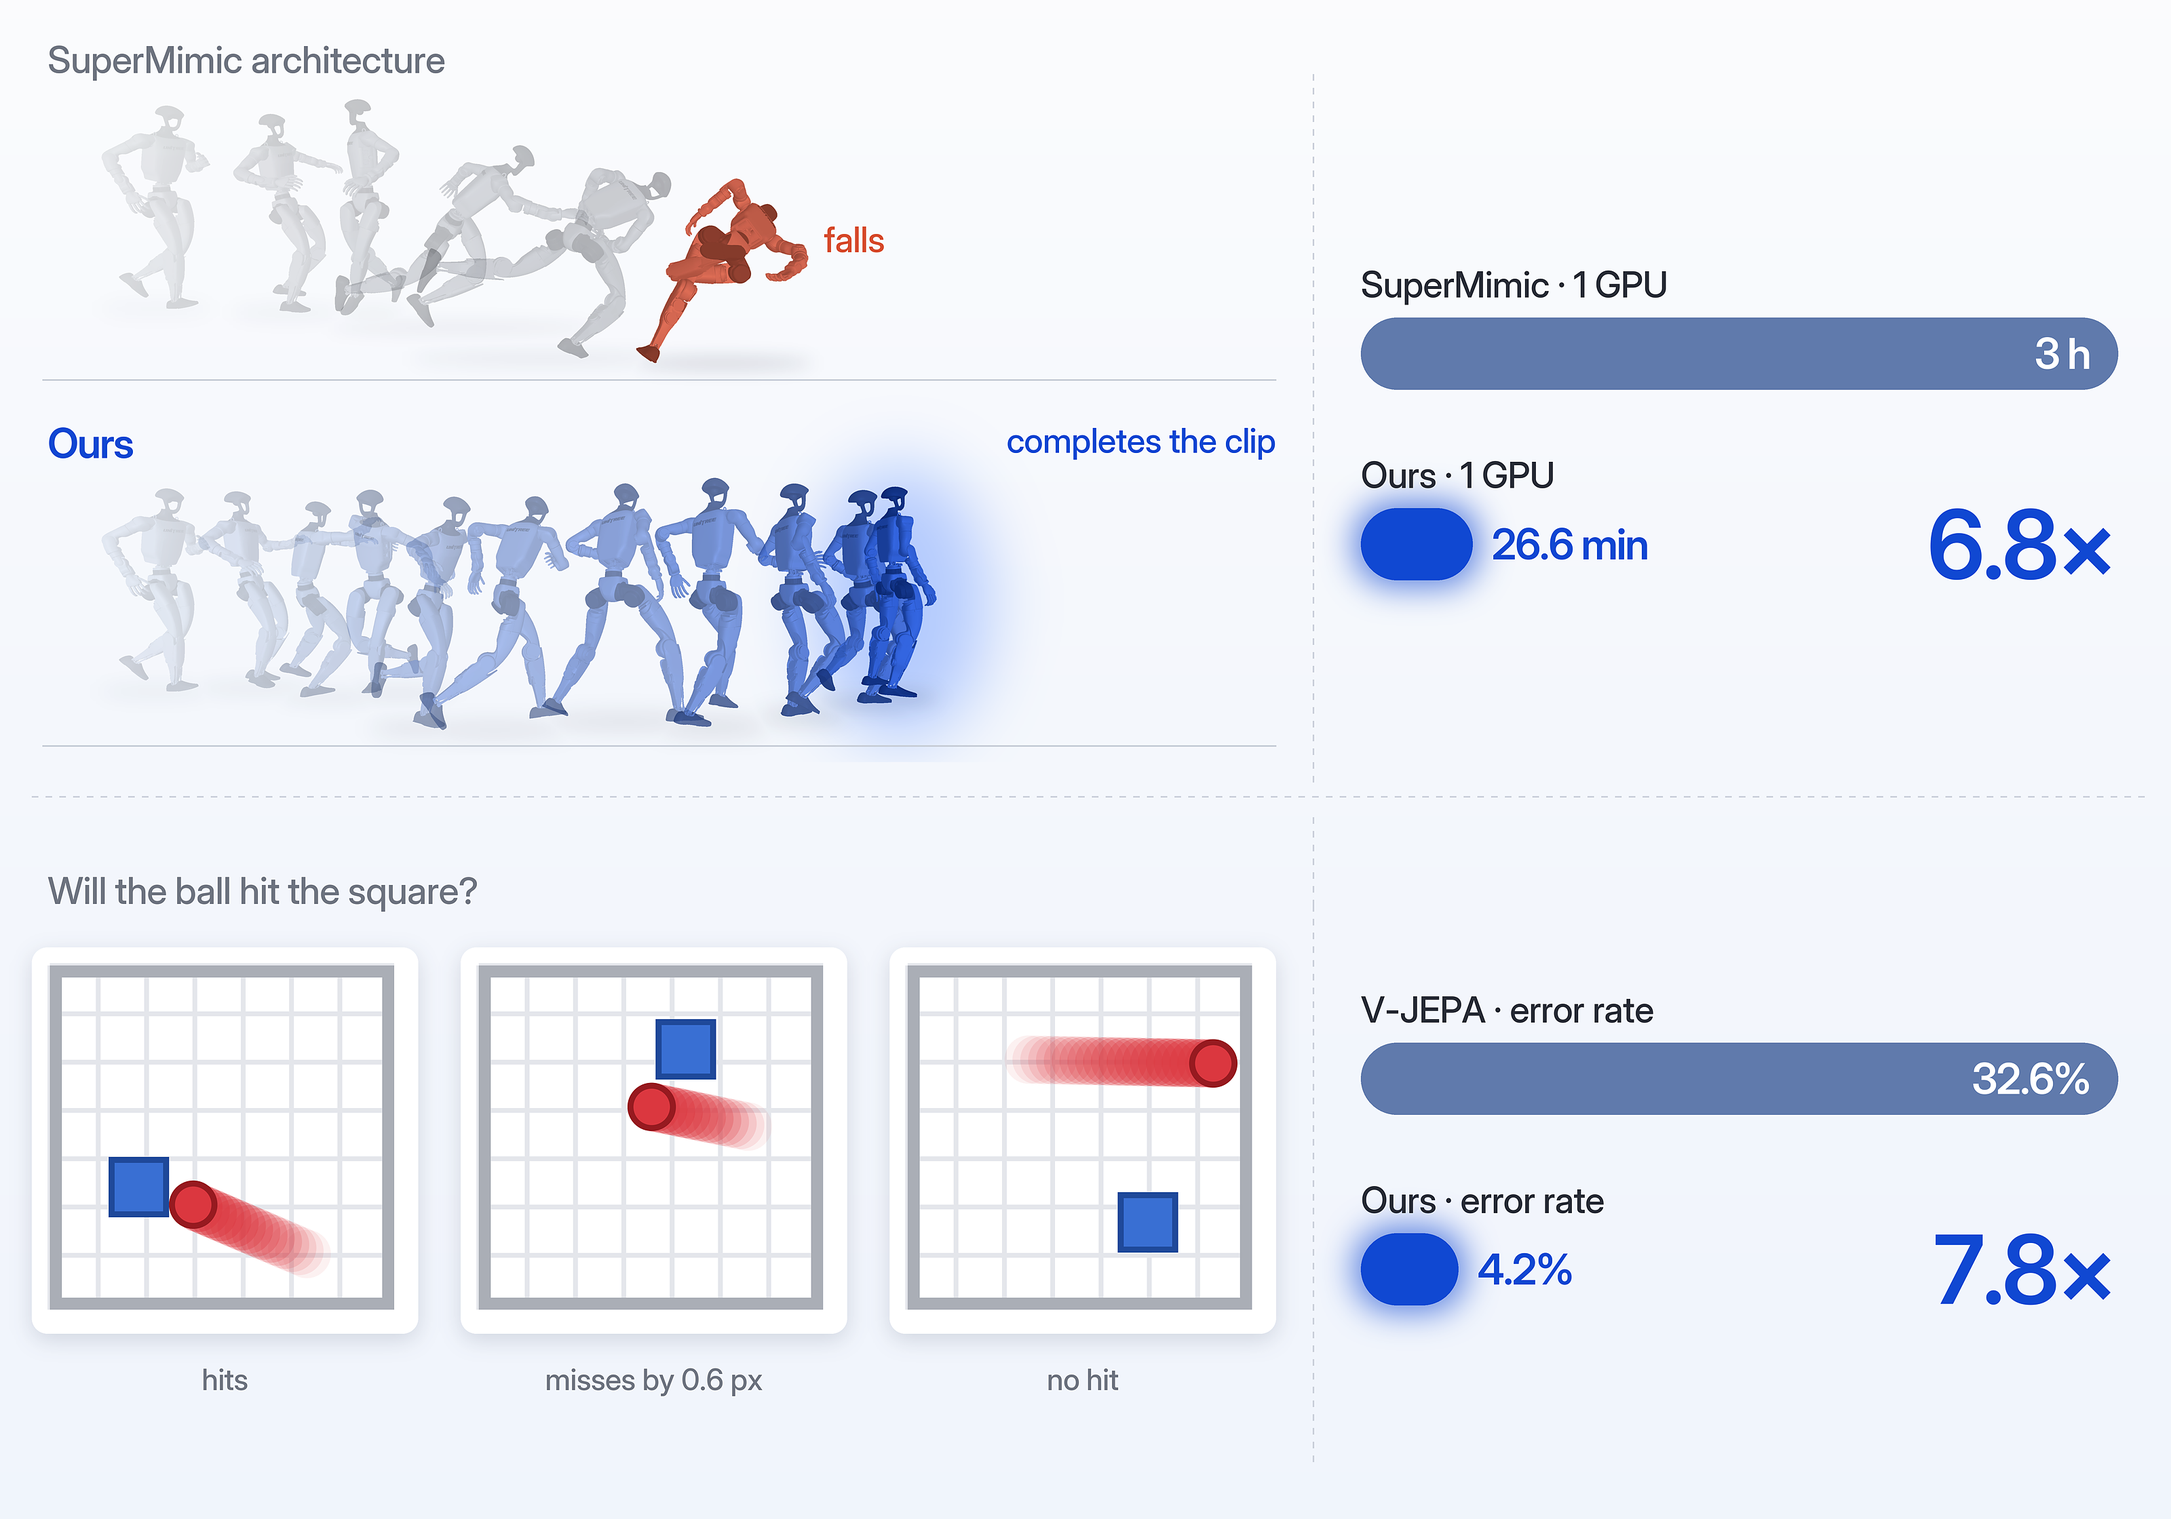
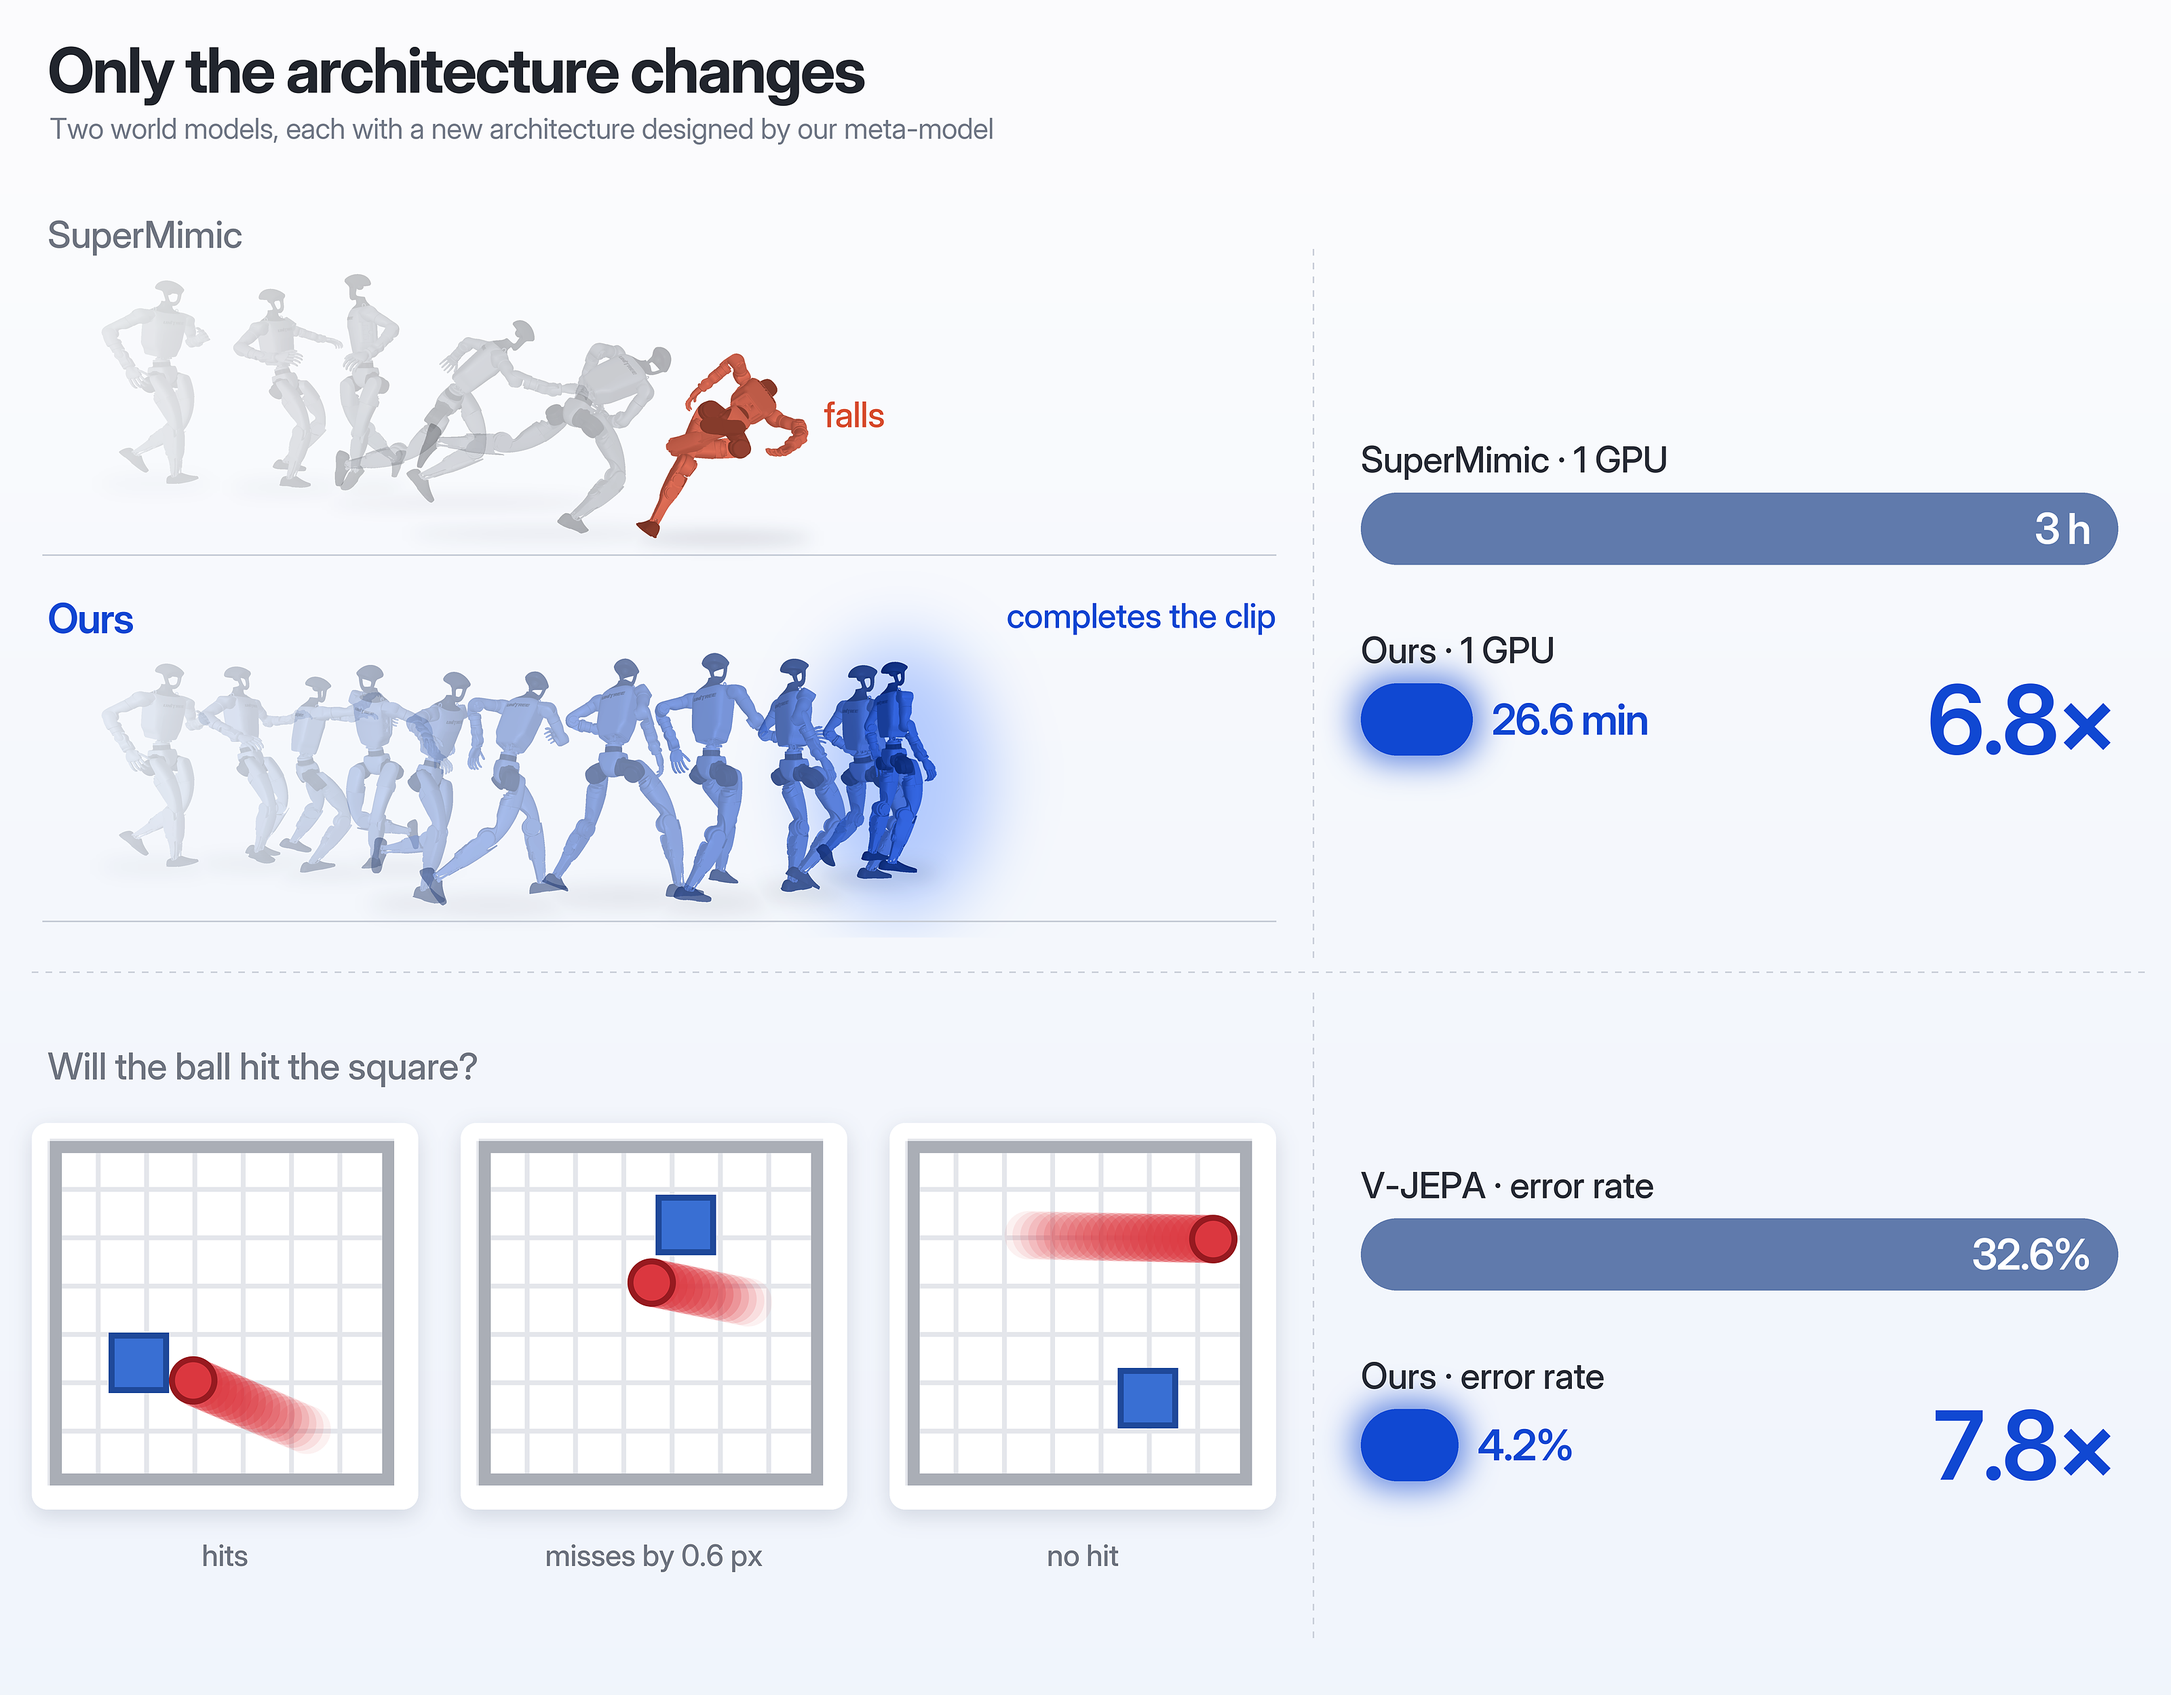
Add figure 1 title; lighter images on phones
Figure 1 gets a title band and the lane label is shortened to
SuperMimic. Narrow screens now load ~100 KB JPEGs and a smaller GIF
instead of the 1 MB originals, and figure 1 is no longer lazy-loaded.

diff --git a/index.html b/index.html
@@ -22,7 +22,7 @@
 <p>SuperMimic 借助可微世界模型训练人形机器人，把 SONIC 需要 128 张 GPU 跑 7 天的训练，缩短到 1 张 GPU 跑 3 小时。我们重新设计了它的策略网络架构，结合一定的工程优化，又把这 3 小时缩短到了 <strong>26.6 分钟</strong>。</p>
 <p>V-JEPA 是 Meta 提出的视频世界模型：它通过预测视频中被遮住的部分，从大量无标注视频中学习物理规律。在一个碰撞预测任务上，我们仅更换其编码器的架构，就把准确率从 <strong>67%</strong> 提升到了 <strong>96%</strong>。</p>
 <p>两个结果说明了同一件事：在数据、规模和训练方法之外，世界模型的架构本身还远没有被挖掘充分。</p>
-<figure class="fig wide"><img src="figures/hero_two_rows_3200.png" alt="图 1" loading="lazy"><figcaption><b>图 1</b>　上：SuperMimic 人形机器人动作跟踪。左为同一段动作（奔跑中侧身闪避、转身 270° 后继续跑），原架构中途摔倒，我们的架构完整跑完；右为单张 GPU 上达到 SuperMimic 训练 3 小时水平所需的时间。下：视频世界模型的碰撞预测。左为任务示例，模型需要判断小球会不会撞上方块；右为测试集上的错误率。</figcaption></figure>
+<figure class="fig wide"><picture><source media="(max-width: 900px)" srcset="figures/m/hero_two_rows_3200.jpg"><img src="figures/hero_two_rows_3200.png" alt="图 1" decoding="async"></picture><figcaption><b>图 1</b>　上：SuperMimic 人形机器人动作跟踪。左为同一段动作（奔跑中侧身闪避、转身 270° 后继续跑），原架构中途摔倒，我们的架构完整跑完；右为单张 GPU 上达到 SuperMimic 训练 3 小时水平所需的时间。下：视频世界模型的碰撞预测。左为任务示例，模型需要判断小球会不会撞上方块；右为测试集上的错误率。</figcaption></figure>
 
 <h2>被忽略的一环</h2>
 <p>过去两年，世界模型进展飞快：V-JEPA 2 从海量视频中学习物理直觉，Genie 能生成可交互的虚拟世界，SuperMimic 用一个可微的世界模型，让人形机器人在单张 GPU 上学会十几万段动作。</p>
@@ -36,7 +36,7 @@
 <h3>新架构：先联合交互，再分开精炼</h3>
 <p>我们把 10 帧参考动作和 10 帧历史观测各自变成 10 个 token，每个 token 对应一帧。20 个 token 先一起做一次 joint attention：参考帧和历史帧可以互相查看，但两组各用自己的 Q/K/V 投影，保留各自的身份。随后两组分开，各自经过一层 SwiGLU 精炼。最后把所有 token 展平，经过一个小 MLP 输出动作。</p>
 <p>新架构没有 32 维瓶颈，参数却只有 167 万，约为原来的五分之一。</p>
-<figure class="fig"><img src="figures/supermimic_architecture.png" alt="图 2" loading="lazy"><figcaption><b>图 2</b>　两种策略架构。左：SuperMimic 原架构，参考动作先经 MLP 压缩为 32 维向量，再与展平的历史观测拼接解码。右：我们的架构，参考帧与历史帧各投影为 10 个 token，先做一次 joint attention，再各自经过 SwiGLU，最后由动作头输出 29 个关节目标。</figcaption></figure>
+<figure class="fig"><picture><source media="(max-width: 900px)" srcset="figures/m/supermimic_architecture.jpg"><img src="figures/supermimic_architecture.png" alt="图 2" loading="lazy" decoding="async"></picture><figcaption><b>图 2</b>　两种策略架构。左：SuperMimic 原架构，参考动作先经 MLP 压缩为 32 维向量，再与展平的历史观测拼接解码。右：我们的架构，参考帧与历史帧各投影为 10 个 token，先做一次 joint attention，再各自经过 SwiGLU，最后由动作头输出 29 个关节目标。</figcaption></figure>
 
 <h3>结果</h3>
 <p>我们让两个架构使用完全相同的训练配方，各训练 45 分钟后评测（表 1）。评测指标是 return，它衡量机器人把动作跟踪得有多准，满分为 1。</p>
@@ -64,14 +64,14 @@
 </table></div>
 <p>同样 45 分钟，原架构因为单步更快，多训练了 1000 多步，return 却仍然明显更低。</p>
 <p>在这套配方上再做一些工程优化，新架构在单张 H100 上只需 26.6 分钟，return 就达到了 SuperMimic 训练 3 小时的水平（图 3）。图 1 左边是一个具体例子：在"奔跑中侧身闪避、转身 270° 后继续跑"这段动作上，原架构中途摔倒，新架构完整跑完。</p>
-<figure class="fig"><img src="figures/supermimic_speed_curve.png" alt="图 3" loading="lazy"><figcaption><b>图 3</b>　单张 H100 上 return 随训练时间的变化。灰线取自 SuperMimic 论文；蓝线为我们的架构，每个点是一次全库评测（129,487 段动作），训练时间不含评测。虚线为目标 return 0.9363。</figcaption></figure>
+<figure class="fig"><picture><source media="(max-width: 900px)" srcset="figures/m/supermimic_speed_curve.jpg"><img src="figures/supermimic_speed_curve.png" alt="图 3" loading="lazy" decoding="async"></picture><figcaption><b>图 3</b>　单张 H100 上 return 随训练时间的变化。灰线取自 SuperMimic 论文；蓝线为我们的架构，每个点是一次全库评测（129,487 段动作），训练时间不含评测。虚线为目标 return 0.9363。</figcaption></figure>
 
 <h3>为什么有效</h3>
 <p>原架构隐含了一个要求：策略在看到机器人当前状态之前，就要先把未来 10 帧动作概括成一个 32 维向量。可是未来动作里哪些信息重要，恰恰取决于机器人此刻的状态。直觉上，快要失去平衡时，最该关注的是接下来一两帧怎么落脚；姿态稳定时，则可以看得更远。</p>
 <p>新架构把这个顺序倒了过来：先让历史帧和参考帧直接交互，每一帧历史观测都能找到与它相关的未来帧，然后两组再各自精炼。信息的取舍发生在"看过对方之后"，而不是之前。</p>
 <h2>例二：视频世界模型，预测碰撞</h2>
 <p>第二个例子来自视频世界模型。我们搭了一个简单而干净的 2D 物理世界：画面里有一个匀速运动的红球和一个静止的蓝色方块。模型看前 32 帧，要判断接下来 16 帧里红球会不会撞上方块。会撞和不会撞的场景各占一半，其中不少只是擦边而过，或者在最后几帧才撞上。</p>
-<figure class="fig"><img src="figures/collision_world.gif" alt="图 4" loading="lazy"><figcaption><b>图 4</b>　2D 碰撞世界的三个示例：撞上（左）、擦边而过（中）、不会撞（右）。红球匀速运动，蓝色方块静止。</figcaption></figure>
+<figure class="fig"><picture><source media="(max-width: 900px)" srcset="figures/m/collision_world.gif"><img src="figures/collision_world.gif" alt="图 4" loading="lazy" decoding="async"></picture><figcaption><b>图 4</b>　2D 碰撞世界的三个示例：撞上（左）、擦边而过（中）、不会撞（右）。红球匀速运动，蓝色方块静止。</figcaption></figure>
 
 <p>训练沿用 V-JEPA 的思路，分两步。先在 1 万段视频上做自监督预训练：遮住一部分画面，让模型在表征空间里预测被遮住的内容。预训练结束后冻结编码器，只在它的输出上训练一个小的读出头来判断是否碰撞。碰撞预测得准不准，反映的是编码器有没有从视频里学到物理规律。</p>
 <h3>原架构：标准的 Transformer</h3>
@@ -83,7 +83,7 @@
 <li>另一条支路直接从 patch token 出发，先在所有时空 token 上做自注意力，再用一次 cross-attention 去查询第一条支路的特征。</li>
 </ul>
 <p>两条支路组成的 cell 重复两次，最后合并输出，替换掉原来的 Transformer 编码器。编码器和预测器加起来约 87 万参数。</p>
-<figure class="fig"><img src="figures/collision_architecture.png" alt="图 5" loading="lazy"><figcaption><b>图 5</b>　两种视频编码器。左：缩小版 V-JEPA，patch token 依次经过两层标准 Transformer block，每层为自注意力加 MLP。右：我们的架构，两条支路组成的 cell 重复两次：一条支路先做 Δt（相邻时刻 token 之差），再经过时间卷积、空间卷积、时间轴自注意力和 MLP；另一条支路由时空自注意力和 cross-attention 组成，后者查询前一条支路的特征。两者之后接相同的预测器和读出头。</figcaption></figure>
+<figure class="fig"><picture><source media="(max-width: 900px)" srcset="figures/m/collision_architecture.jpg"><img src="figures/collision_architecture.png" alt="图 5" loading="lazy" decoding="async"></picture><figcaption><b>图 5</b>　两种视频编码器。左：缩小版 V-JEPA，patch token 依次经过两层标准 Transformer block，每层为自注意力加 MLP。右：我们的架构，两条支路组成的 cell 重复两次：一条支路先做 Δt（相邻时刻 token 之差），再经过时间卷积、空间卷积、时间轴自注意力和 MLP；另一条支路由时空自注意力和 cross-attention 组成，后者查询前一条支路的特征。两者之后接相同的预测器和读出头。</figcaption></figure>
 
 <h3>结果</h3>
 <p>两个模型使用相同的预训练配方（200 个 epoch）、相同的读出头和相同的数据划分。读出头的训练轮数按验证集选定后，在 1000 段从未见过的测试视频上评测（表 2）。</p>

diff --git a/assets/style.css b/assets/style.css
@@ -34,6 +34,7 @@ li { margin: 6px 0; }
 a { color: var(--blue); text-decoration: none; border-bottom: 1px solid rgba(16, 72, 210, .3); }
 
 .fig { margin: 36px 0 40px; }
+.fig picture { display: block; }
 .fig img { display: block; width: 100%; height: auto; border-radius: 10px; }
 .fig.wide { margin-left: calc(50% - min(46vw, 440px)); margin-right: calc(50% - min(46vw, 440px)); }
 figcaption { margin-top: 12px; font-size: 14px; line-height: 1.7; color: var(--muted); }

diff --git a/build.py b/build.py
@@ -25,8 +25,14 @@ affils_html = "".join(f'<span>{sup(a).translate(sup_map)}</span>' for a in affil
 # ---- figures: image line followed by a "**图 N** caption" paragraph
 def figure(m):
     alt, path, label, cap = m.group(1), m.group(2), m.group(3), m.group(4)
-    wide = " wide" if label.strip() == "图 1" else ""
-    return (f'\n<figure class="fig{wide}"><img src="{path}" alt="{html.escape(alt)}" loading="lazy">'
+    first = label.strip() == "图 1"
+    wide = " wide" if first else ""
+    name = path.rsplit("/", 1)[1]; stem, ext = name.rsplit(".", 1)
+    small = f"figures/m/{stem}.{'gif' if ext == 'gif' else 'jpg'}"
+    lazy = "" if first else ' loading="lazy"'
+    img = (f'<picture><source media="(max-width: 900px)" srcset="{small}">'
+           f'<img src="{path}" alt="{html.escape(alt)}"{lazy} decoding="async"></picture>')
+    return (f'\n<figure class="fig{wide}">{img}'
             f'<figcaption><b>{html.escape(label)}</b>　{html.escape(cap.strip())}</figcaption></figure>\n')
 rest = re.sub(r"!\[([^\]]*)\]\(([^)]+)\)\n\n\*\*(图 \d+)\*\*\s*([^\n]+)", figure, rest)
 
